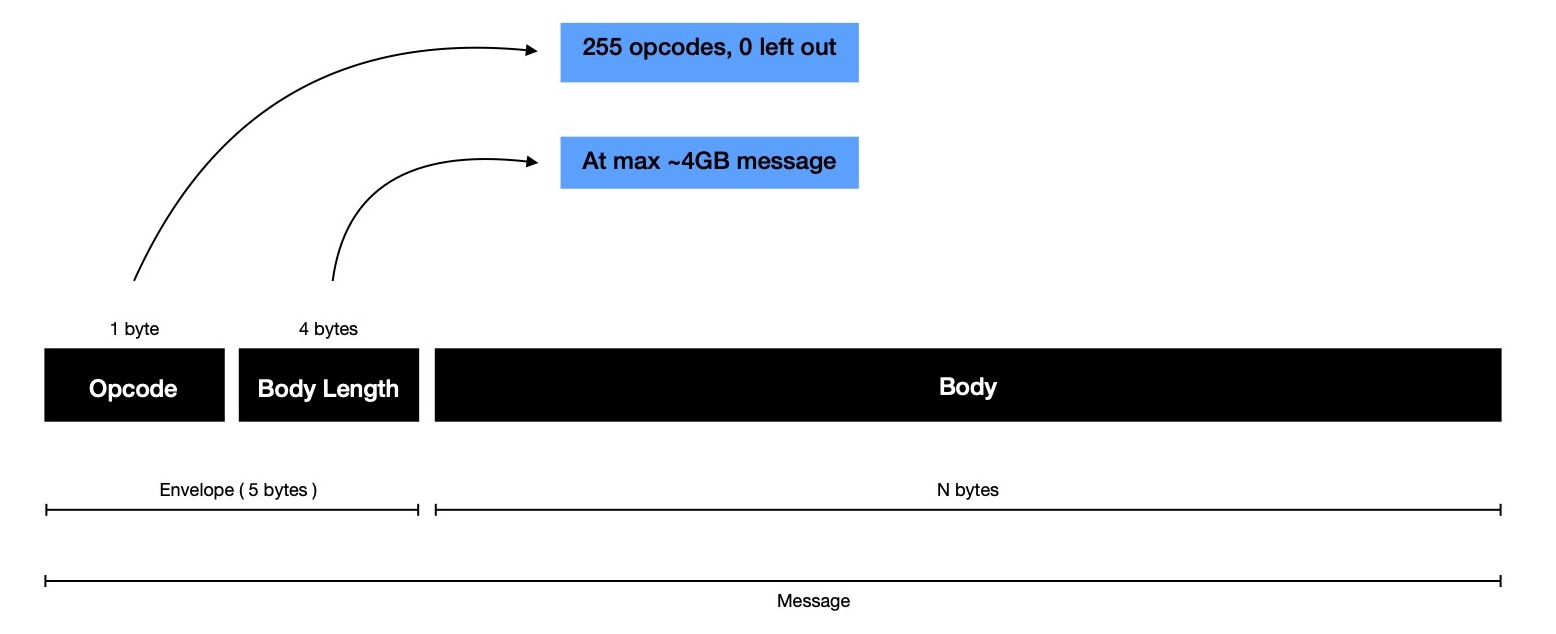
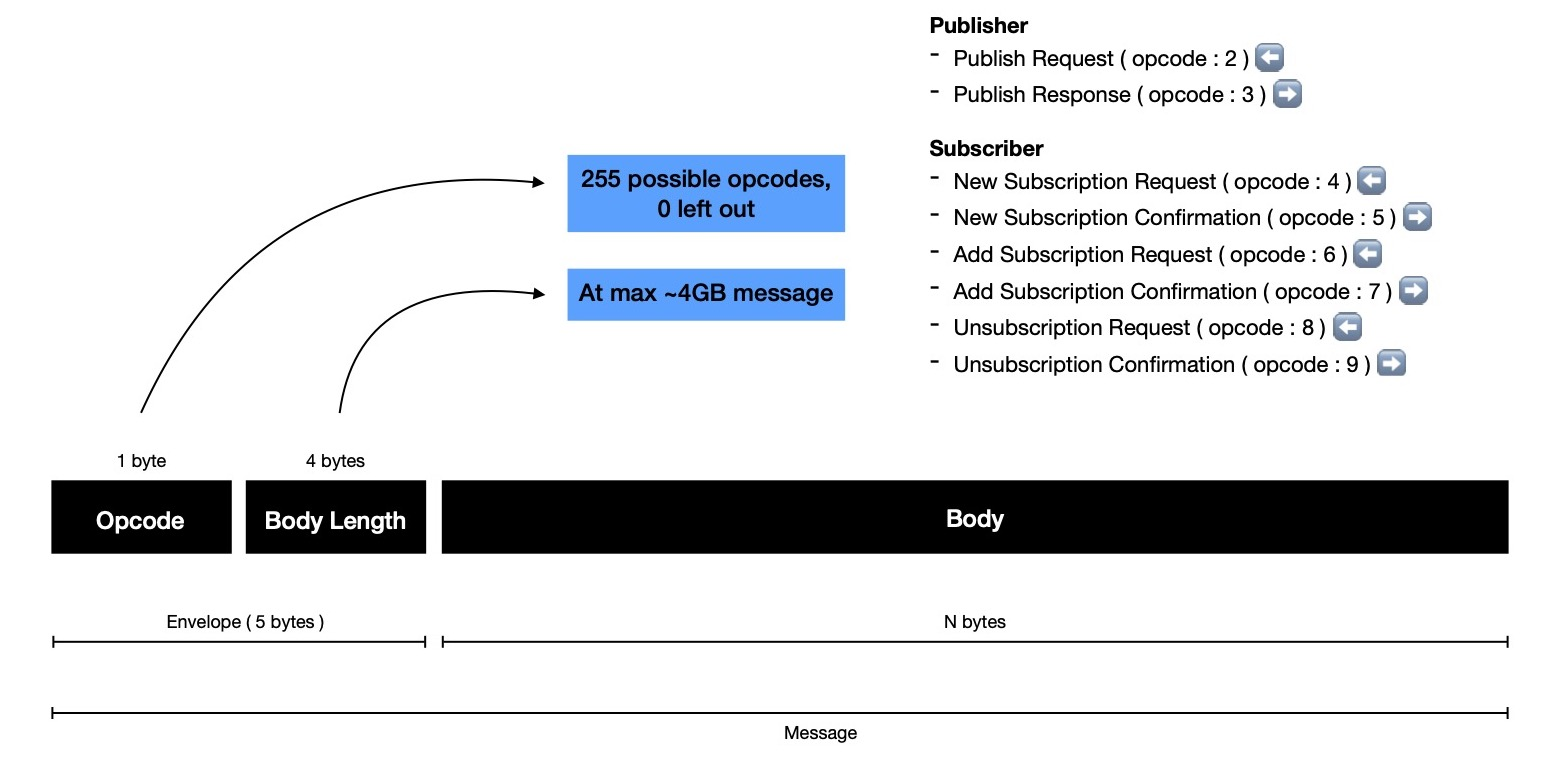
heartbeat messages blog [ close to completion ]

diff --git a/pages/sound-of-heartbeat-over-tcp.html b/pages/sound-of-heartbeat-over-tcp.html
@@ -61,8 +61,8 @@
                     machine, because it doesn't follow conventional way of writing TCP servers in Go. Generally, one
                     go-routine accepts TCP connection & spawns new go-routine for handling connection life-cycle. This way if objective
                     is to handle > 10k concurrent connections, there're > 10k go-routines. Go scheduler needs
-                    to perform expensive context switching for running go-routines on underlying OS threads. For > 10k concurrent
-                    connections cost of context switching is pretty high, when no useful task gets accomplished. Also stack memory requirement
+                    to perform expensive context switching for running go-routines on underlying OS threads. For > 10k go-routines
+                    cost of context switching is pretty high, when no useful task gets accomplished. Also stack memory requirement
                     for > 10k go-routines is not something neglectable.
                     <br>
                     <br>
@@ -93,7 +93,7 @@
                 </ul>
                 <p class="blogText">
                     For one client, envelope is being read and for another one body is being read after envelope reading
-                    is done. Also I'd like to highlight, messages are seperated in two components because it helps
+                    is done. Also I'd like to highlight, messages are seperated in two parts because it helps
                     in determining what's length of variable sized body, where envelope length is fixed at 5-bytes.
                 </p>
                 <img class="imgCenter" src="../images/sound-of-heartbeat-go-routine-reading-message.jpg">
@@ -103,27 +103,67 @@
                     <br>
                     For reading message envelope, request is issued; watcher informs when envelope is read. Then envelope is deserialised to
                     figure out how many more bytes to read from socket for consuming message body. N-bytes body reading is
-                    again delegated to watcher, which informs us as soon as it's done. Now if there're N-clients connected at this moment
-                    each of them may stay in any of possible two reading stages. There could be also different kinds of messages --- where opcode is
+                    again delegated to watcher, which informs us as soon as it's done. Now if there're M-clients connected at this moment
+                    each of them may be reading any possible part of message. There could be also different kinds of messages --- where opcode is
                     encoded in envelope along with body length. Reading handler function needs to remember where it left off
-                    last time, so that it can keep processing later part of message. This calls for additional state keeping --- resulting into
-                    more memory allocation than first model.
+                    last time & what exactly it was doing then, so that it can keep processing later part of message. 
+                    This calls for additional state keeping --- resulting into more memory allocation than first model.
                 </p>
                 <img class="imgCenter" src="../images/sound-of-heartbeat-watcher-reading-message.jpg">
                 <p class="blogText">
                     In <span class="highlight">pub0sub</span> there're two kinds of clients i.e. { publisher, subscriber }. Each
                     of them interact with Pub/Sub server i.e. <span class="highlight">0hub</span> with different intention
-                    resulting into different message format, which calls for placing opcode in message envelope. Opcode helps
-                    read handler function to understand how to actually deserialise message body or what kind of actions to take on deserialised, structured message
+                    resulting into different message format, which requires placing opcode in message envelope. Opcode helps
+                    read handler understand how to actually deserialise message body or what kind of actions to take on deserialised, structured message
                     & how to eventually respond back to client.
                 </p>
                 <img class="imgCenter" src="../images/sound-of-heartbeat-message-format.jpg">
                 <p class="blogText">
-                    All these are already in place and working as expected in <span class="highlight">0hub</span>. What I
-                    propose is for long lived TCP connections between server & publisher/ subscriber, there's a need
-                    to periodically check health of each connection. This health checking is going to be lazy --- if some
-                    interaction has happened over connection in last 15s, then periodic health check scheduled at t + 13 can be
-                    avoided and scheduled at t + 30.
+                    With all these pieces Pub/Sub Hub implementation <span class="highlight">0hub</span> shows quite
+                    promising performance. I've tested it with 16k cocurrent connections on consumer grade machine. I believe
+                    if it's tested in containerised environment where virtual overlay networking can be easily used
+                    and more ports ( = more clients ) in total are available, <span class="highlight">0hub</span>
+                    will break its own record. Some other day I'd like to run that experiment.
+                    <br>
+                    <br>
+                    Recently I started noticing issue with long lived TCP connections --- resulting into abnormal connection termination.
+                    I suspect this is due to long lived TCP connections might be idle for long time if publishers are not publishing
+                    often or subscribers have subscribed to some infrequently update receiving topics. To address this
+                    situation I plan to add periodic heartbeat message passing between clients & hub. Heartbeat messages will be
+                    only 5-bytes lengthy --- only envelope, no body. If there's no body, it denotes last 4-bytes of message envelope
+                    will be holding 0, only first byte contains opcode ---  10 for ping, 11 for pong. For maintaining backward compatibility
+                    envelope size can't be changed, which is why I'm wasting 4 bytes in envelope by only storing 0.
+                </p>
+                <img class="imgCenter" src="../images/sound-of-heartbeat-ping-pong.jpg">
+                <p class="blogText">
+                    Every 30 seconds <span class="highlight">0hub</span> sends PING ( opcode = 10 ) message to all connected
+                    publishers & subcribers and expects to hear back with PONG ( opcode = 11 ) message. For all those who responded
+                    back, their next health check to be scheduled at t+30. Others who didn't respond back, they'll be
+                    pinged again upto 3 times at max, each after 30 seconds delay. If they still don't respond back, hub terminates connection
+                    with them while cleaning up all resources associated with respective client.
+                    <br>
+                    <br>
+                    This will hopefully help hub in maintaining connection & related resources only for healthy & active clients, while enabling it
+                    in estimating how many subscribers to receive published message on a topic with better precision.
+                    This estimation calculation will pose a challenge during implementing distributed version of <span class="highlight">pub0sub</span> --- which I'll
+                    talk about some other day.
+                    <br>
+                    <br>
+                    These PING/ PONG messages are simply an overhead, though unavoidable, consuming bandwidth overtime. But I can probably
+                    reduce #-of health checking done. When hub and client has recently communicated for sake of their
+                    usual business procedure, it's quite evident connection is active --- health check can be avoided. Idea is to only do
+                    health check when hub hasn't heard from client for some time.
+                    <br>
+                    <br>
+                    If some active publisher sends message publish intent every < 30s, it can avoid explicit health check cost. On other hand subscribers
+                    listening to active topic i.e. frequent update receiving topic, can avoid
+                    health check because connection issues will be caught when attempting to push update. That's why I call
+                    health check <b>LAZY</b>.
+                    As each health check message & response wastes 4-bytes for sake of backward compatibility, it's better
+                    to keep its usage as low as possible.
+                    <br>
+                    <br>
+                    Current version of <span class="highlight">pub0sub</span> is <a class="blogLink">here</a>. I'd love to get feedback. Have a great time !
                 </p>
             </article>
         </div>
